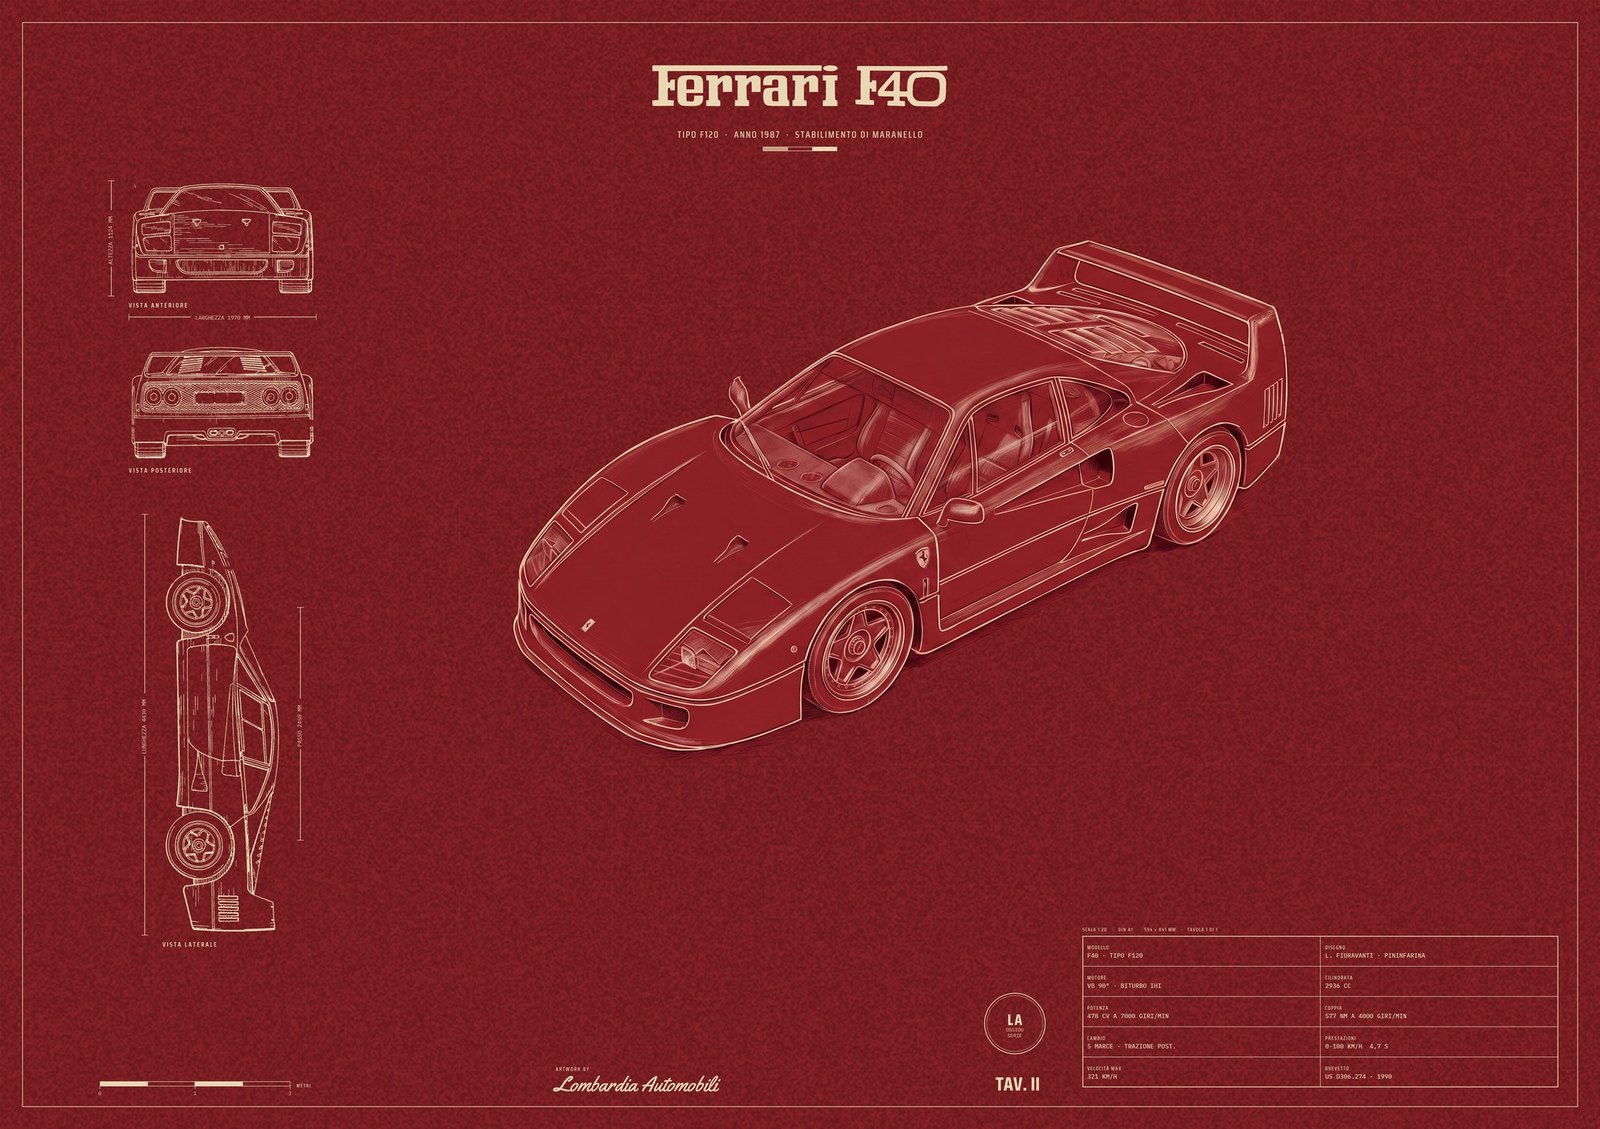
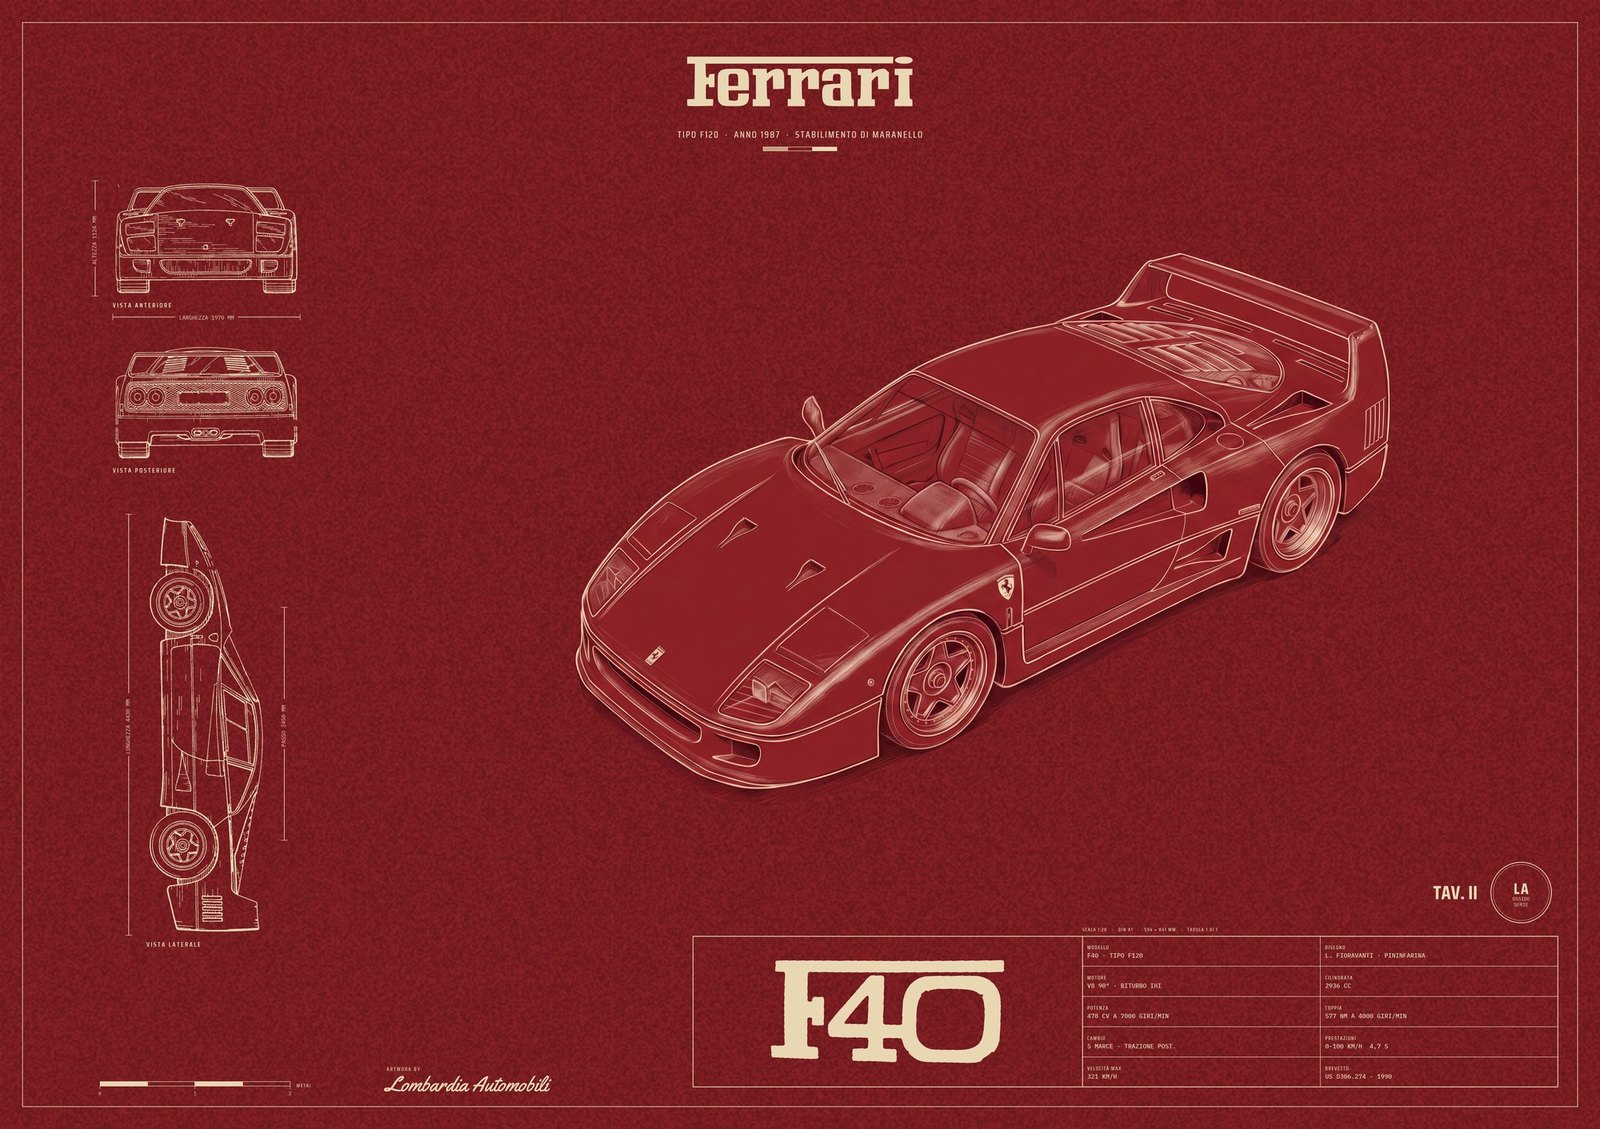
Publish the lot board

diff --git a/house/index.html b/house/index.html
@@ -20,7 +20,7 @@ a{color:#ffd28a}
 
 <h2 id="poster">The poster</h2>
 <p>Tap a sheet for the full 9933 x 7016 file. Only the car is generated; every line, figure, letter and rule is drawn. Checks under each sheet are measured, not eyeballed.</p>
-<figure><a href="img/f40-ossido-landscape-A1.jpg"><img src="img/f40-ossido-landscape.jpg" alt="f40-ossido-landscape"></a><figcaption>ROUND 5 · A: nano-banana-pro-edit, 6 references (cleaned gen 362 car, two shield photos, three real F40 photos), high-camera clause; drawn apparatus, library header · <a href="img/f40-ossido-landscape-A1.jpg">full A1 file</a></figcaption><table class="chk"><tr><td>size</td><td>9933 x 7016</td><td class="ok">pass</td></tr><tr><td>ratio</td><td>1.4158</td><td class="ok">pass</td></tr><tr><td>edge white % (t/b/l/r)</td><td>0.0 / 0.0 / 0.0 / 0.0</td><td class="ok">pass</td></tr><tr><td>edge mean rgb (top)</td><td>[119, 28, 33]</td><td class="ok">pass</td></tr><tr><td>car box vs source, % of sheet</td><td>x0 0.0 · y0 0.31 · x1 -0.15 · y1 -0.27 · IoU 0.9846</td><td class="ok">pass</td></tr><tr><td>ground sampled from render</td><td>[139, 34, 39]</td><td class="ok">pass</td></tr><tr><td>library used</td><td>{&quot;wordmark&quot;: &quot;ferrari-wordmark-mask-4k.png&quot;, &quot;model_asset&quot;: &quot;f40-model-mask.png&quot;, &quot;model_h&quot;: &quot;253&quot;, &quot;_library_entry&quot;: &quot;Ferrari&quot;}</td><td class="ok">pass</td></tr></table></figure><figure><a href="img/f40-ossido-landscape-NB2A-A1.jpg"><img src="img/f40-ossido-landscape-NB2A.jpg" alt="f40-ossido-landscape-NB2A"></a><figcaption>ROUND 5 · B: nano-banana-2-edit, 8 references, same brief · <a href="img/f40-ossido-landscape-NB2A-A1.jpg">full A1 file</a></figcaption><table class="chk"><tr><td>size</td><td>9933 x 7016</td><td class="ok">pass</td></tr><tr><td>ratio</td><td>1.4158</td><td class="ok">pass</td></tr><tr><td>edge white % (t/b/l/r)</td><td>0.0 / 0.0 / 0.0 / 0.0</td><td class="ok">pass</td></tr><tr><td>edge mean rgb (top)</td><td>[120, 28, 33]</td><td class="ok">pass</td></tr><tr><td>car box vs source, % of sheet</td><td>x0 0.0 · y0 0.26 · x1 -0.16 · y1 -0.27 · IoU 0.9856</td><td class="ok">pass</td></tr><tr><td>ground sampled from render</td><td>[139, 33, 39]</td><td class="ok">pass</td></tr><tr><td>library used</td><td>{&quot;wordmark&quot;: &quot;ferrari-wordmark-mask-4k.png&quot;, &quot;model_asset&quot;: &quot;f40-model-mask.png&quot;, &quot;model_h&quot;: &quot;253&quot;, &quot;_library_entry&quot;: &quot;Ferrari&quot;}</td><td class="ok">pass</td></tr></table></figure><figure><a href="img/f40-ossido-landscape-NB2B-A1.jpg"><img src="img/f40-ossido-landscape-NB2B.jpg" alt="f40-ossido-landscape-NB2B"></a><figcaption>ROUND 5 · C: nano-banana-2-edit, 8 references, same brief - highest pose match of the three (IoU 0.946) · <a href="img/f40-ossido-landscape-NB2B-A1.jpg">full A1 file</a></figcaption><table class="chk"><tr><td>size</td><td>9933 x 7016</td><td class="ok">pass</td></tr><tr><td>ratio</td><td>1.4158</td><td class="ok">pass</td></tr><tr><td>edge white % (t/b/l/r)</td><td>0.0 / 0.0 / 0.0 / 0.0</td><td class="ok">pass</td></tr><tr><td>edge mean rgb (top)</td><td>[117, 26, 30]</td><td class="ok">pass</td></tr><tr><td>car box vs source, % of sheet</td><td>x0 0.0 · y0 0.33 · x1 -0.13 · y1 -0.27 · IoU 0.9847</td><td class="ok">pass</td></tr><tr><td>ground sampled from render</td><td>[136, 31, 36]</td><td class="ok">pass</td></tr><tr><td>library used</td><td>{&quot;wordmark&quot;: &quot;ferrari-wordmark-mask-4k.png&quot;, &quot;model_asset&quot;: &quot;f40-model-mask.png&quot;, &quot;model_h&quot;: &quot;253&quot;, &quot;_library_entry&quot;: &quot;Ferrari&quot;}</td><td class="ok">pass</td></tr></table></figure><figure><a href="img/f40-ossido-landscape-TYPE-A1.jpg"><img src="img/f40-ossido-landscape-TYPE.jpg" alt="f40-ossido-landscape-TYPE"></a><figcaption>VARIANT · same sheet, model name in the brand display face (Saira) instead of the traced F40 badge lettering - your pick · <a href="img/f40-ossido-landscape-TYPE-A1.jpg">full A1 file</a></figcaption><table class="chk"><tr><td>size</td><td>9933 x 7016</td><td class="ok">pass</td></tr><tr><td>ratio</td><td>1.4158</td><td class="ok">pass</td></tr><tr><td>edge white % (t/b/l/r)</td><td>0.0 / 0.0 / 0.0 / 0.0</td><td class="ok">pass</td></tr><tr><td>edge mean rgb (top)</td><td>[120, 27, 32]</td><td class="ok">pass</td></tr><tr><td>car box vs source, % of sheet</td><td>x0 0.0 · y0 0.26 · x1 -0.15 · y1 -0.37 · IoU 0.9851</td><td class="ok">pass</td></tr><tr><td>ground sampled from render</td><td>[139, 32, 38]</td><td class="ok">pass</td></tr><tr><td>library used</td><td>{&quot;wordmark&quot;: &quot;ferrari-wordmark-mask-4k.png&quot;, &quot;_library_entry&quot;: &quot;Ferrari&quot;}</td><td class="ok">pass</td></tr></table></figure><figure><a href="img/f40-ossido-landscape-R2-FULL-A1.jpg"><img src="img/f40-ossido-landscape-R2-FULL.jpg" alt="f40-ossido-landscape-R2-FULL"></a><figcaption>YOUR ASK · r2-text2 car, smaller, on the full sheet: elevations, measurements, block, all inside the border · <a href="img/f40-ossido-landscape-R2-FULL-A1.jpg">full A1 file</a></figcaption><table class="chk"><tr><td>size</td><td>9933 x 7016</td><td class="ok">pass</td></tr><tr><td>ratio</td><td>1.4158</td><td class="ok">pass</td></tr><tr><td>edge white % (t/b/l/r)</td><td>0.0 / 0.0 / 0.0 / 0.0</td><td class="ok">pass</td></tr><tr><td>edge mean rgb (top)</td><td>[106, 28, 31]</td><td class="ok">pass</td></tr><tr><td>car box vs source, % of sheet</td><td>x0 0.05 · y0 2.85 · x1 -0.1 · y1 -2.96 · IoU 0.8708</td><td class="ok">pass</td></tr><tr><td>ground sampled from render</td><td>[124, 33, 36]</td><td class="ok">pass</td></tr><tr><td>library used</td><td>{&quot;wordmark&quot;: &quot;ferrari-wordmark-mask-4k.png&quot;, &quot;model_asset&quot;: &quot;f40-model-mask.png&quot;, &quot;model_h&quot;: &quot;253&quot;, &quot;_library_entry&quot;: &quot;Ferrari&quot;}</td><td class="ok">pass</td></tr></table></figure><figure><a href="img/f40-ossido-landscape-R2-NOELEV-A1.jpg"><img src="img/f40-ossido-landscape-R2-NOELEV.jpg" alt="f40-ossido-landscape-R2-NOELEV"></a><figcaption>YOUR ASK · r2-text2 car on the ossido base: full apparatus, no elevations, no scale bar · <a href="img/f40-ossido-landscape-R2-NOELEV-A1.jpg">full A1 file</a></figcaption><table class="chk"><tr><td>size</td><td>9933 x 7016</td><td class="ok">pass</td></tr><tr><td>ratio</td><td>1.4158</td><td class="ok">pass</td></tr><tr><td>edge white % (t/b/l/r)</td><td>0.0 / 0.0 / 0.0 / 0.0</td><td class="ok">pass</td></tr><tr><td>edge mean rgb (top)</td><td>[106, 28, 31]</td><td class="ok">pass</td></tr><tr><td>car box vs source, % of sheet</td><td>x0 7.76 · y0 0.0 · x1 -7.83 · y1 -0.04 · IoU 0.8093</td><td class="bad">FAIL</td></tr><tr><td>ground sampled from render</td><td>[124, 33, 36]</td><td class="ok">pass</td></tr><tr><td>library used</td><td>{&quot;wordmark&quot;: &quot;ferrari-wordmark-mask-4k.png&quot;, &quot;model_asset&quot;: &quot;f40-model-mask.png&quot;, &quot;model_h&quot;: &quot;253&quot;, &quot;_library_entry&quot;: &quot;Ferrari&quot;}</td><td class="ok">pass</td></tr></table></figure><figure><a href="img/f40-ossido-landscape-R2-BLANK-A1.jpg"><img src="img/f40-ossido-landscape-R2-BLANK.jpg" alt="f40-ossido-landscape-R2-BLANK"></a><figcaption>YOUR ASK · r2-text2 car on the blank ossido base: ground, frame, header, imprint only · <a href="img/f40-ossido-landscape-R2-BLANK-A1.jpg">full A1 file</a></figcaption><table class="chk"><tr><td>size</td><td>9933 x 7016</td><td class="ok">pass</td></tr><tr><td>ratio</td><td>1.4158</td><td class="ok">pass</td></tr><tr><td>edge white % (t/b/l/r)</td><td>0.0 / 0.0 / 0.0 / 0.0</td><td class="ok">pass</td></tr><tr><td>edge mean rgb (top)</td><td>[106, 28, 31]</td><td class="ok">pass</td></tr><tr><td>car box vs source, % of sheet</td><td>x0 0.01 · y0 0.78 · x1 -0.07 · y1 -0.86 · IoU 0.9749</td><td class="ok">pass</td></tr><tr><td>ground sampled from render</td><td>[124, 33, 36]</td><td class="ok">pass</td></tr><tr><td>library used</td><td>{&quot;wordmark&quot;: &quot;ferrari-wordmark-mask-4k.png&quot;, &quot;model_asset&quot;: &quot;f40-model-mask.png&quot;, &quot;model_h&quot;: &quot;253&quot;, &quot;_library_entry&quot;: &quot;Ferrari&quot;}</td><td class="ok">pass</td></tr></table></figure><figure><a href="img/f40-ossido-landscape-B-A1.jpg"><img src="img/f40-ossido-landscape-B.jpg" alt="f40-ossido-landscape-B"></a><figcaption>RUNNER-UP · car regenerated from the extracted prompt alone (round 3, text route, front-left view clause) · <a href="img/f40-ossido-landscape-B-A1.jpg">full A1 file</a></figcaption><table class="chk"><tr><td>size</td><td>9933 x 7016</td><td class="ok">pass</td></tr><tr><td>ratio</td><td>1.4158</td><td class="ok">pass</td></tr><tr><td>edge white % (t/b/l/r)</td><td>0.0 / 0.0 / 0.0 / 0.0</td><td class="ok">pass</td></tr><tr><td>edge mean rgb (top)</td><td>[113, 32, 32]</td><td class="ok">pass</td></tr><tr><td>car box vs source, % of sheet</td><td>x0 0.09 · y0 1.37 · x1 -0.04 · y1 -1.4 · IoU 0.9444</td><td class="ok">pass</td></tr><tr><td>ground sampled from render</td><td>[132, 38, 38]</td><td class="ok">pass</td></tr><tr><td>library used</td><td>{&quot;wordmark&quot;: &quot;ferrari-wordmark-mask-4k.png&quot;, &quot;model_asset&quot;: &quot;f40-model-mask.png&quot;, &quot;model_h&quot;: &quot;253&quot;, &quot;_library_entry&quot;: &quot;Ferrari&quot;}</td><td class="ok">pass</td></tr></table></figure><figure><a href="img/f40-ossido-landscape-CUTOUT-A1.jpg"><img src="img/f40-ossido-landscape-CUTOUT.jpg" alt="f40-ossido-landscape-CUTOUT"></a><figcaption>REFERENCE ONLY · the gen 362 car cut out through the mask - the route you rejected; kept so the difference is visible · <a href="img/f40-ossido-landscape-CUTOUT-A1.jpg">full A1 file</a></figcaption><table class="chk"><tr><td>size</td><td>9933 x 7016</td><td class="ok">pass</td></tr><tr><td>ratio</td><td>1.4158</td><td class="ok">pass</td></tr><tr><td>edge white % (t/b/l/r)</td><td>0.0 / 0.0 / 0.0 / 0.0</td><td class="ok">pass</td></tr><tr><td>edge mean rgb (top)</td><td>[119, 28, 34]</td><td class="ok">pass</td></tr><tr><td>car box vs source, % of sheet</td><td>x0 0.17 · y0 0.0 · x1 -0.21 · y1 -0.01 · IoU 0.9926</td><td class="ok">pass</td></tr><tr><td>ground sampled from render</td><td>[139, 33, 40]</td><td class="ok">pass</td></tr><tr><td>library used</td><td>{&quot;wordmark&quot;: &quot;ferrari-wordmark-mask-4k.png&quot;, &quot;model_asset&quot;: &quot;f40-model-mask.png&quot;, &quot;model_h&quot;: &quot;253&quot;, &quot;_library_entry&quot;: &quot;Ferrari&quot;}</td><td class="ok">pass</td></tr></table></figure>
+<figure><a href="img/f40-ossido-landscape-A1.jpg"><img src="img/f40-ossido-landscape.jpg" alt="f40-ossido-landscape"></a><figcaption>THE SHEET · Round 5 B (nano-banana-2-edit, 8 references): car regenerated alone on the ground, drawn apparatus; Ferrari wordmark centred, F40 lettering in the spec box, TAV and LA above it · <a href="img/f40-ossido-landscape-A1.jpg">full A1 file</a></figcaption><table class="chk"><tr><td>size</td><td>9933 x 7016</td><td class="ok">pass</td></tr><tr><td>ratio</td><td>1.4158</td><td class="ok">pass</td></tr><tr><td>edge white % (t/b/l/r)</td><td>0.0 / 0.0 / 0.0 / 0.0</td><td class="ok">pass</td></tr><tr><td>edge mean rgb (top)</td><td>[120, 28, 33]</td><td class="ok">pass</td></tr><tr><td>car box vs source, % of sheet</td><td>x0 0.12 · y0 0.16 · x1 0.0 · y1 -0.38 · IoU 0.9867</td><td class="ok">pass</td></tr><tr><td>ground sampled from render</td><td>[139, 33, 39]</td><td class="ok">pass</td></tr><tr><td>library used</td><td>{&quot;wordmark&quot;: &quot;ferrari-wordmark-mask-4k.png&quot;, &quot;model_asset&quot;: &quot;f40-model-mask.png&quot;, &quot;model_h&quot;: &quot;253&quot;, &quot;_library_entry&quot;: &quot;Ferrari&quot;}</td><td class="ok">pass</td></tr></table></figure>
 
 <h2 id="cands">Car candidates</h2>
 <p>Car-only generations from the prompt extracted out of gen 362. IoU is the car box against gen 362's own car box; stray ink is anything the model drew outside the car.</p>

diff --git a/studio.html b/studio.html
@@ -4958,6 +4958,8 @@ document.querySelectorAll('.tabs button').forEach(function(b){
 
 
 
+
+
 <script>
 // main tabs
 document.querySelectorAll('.mtabs button').forEach(function (b) {
